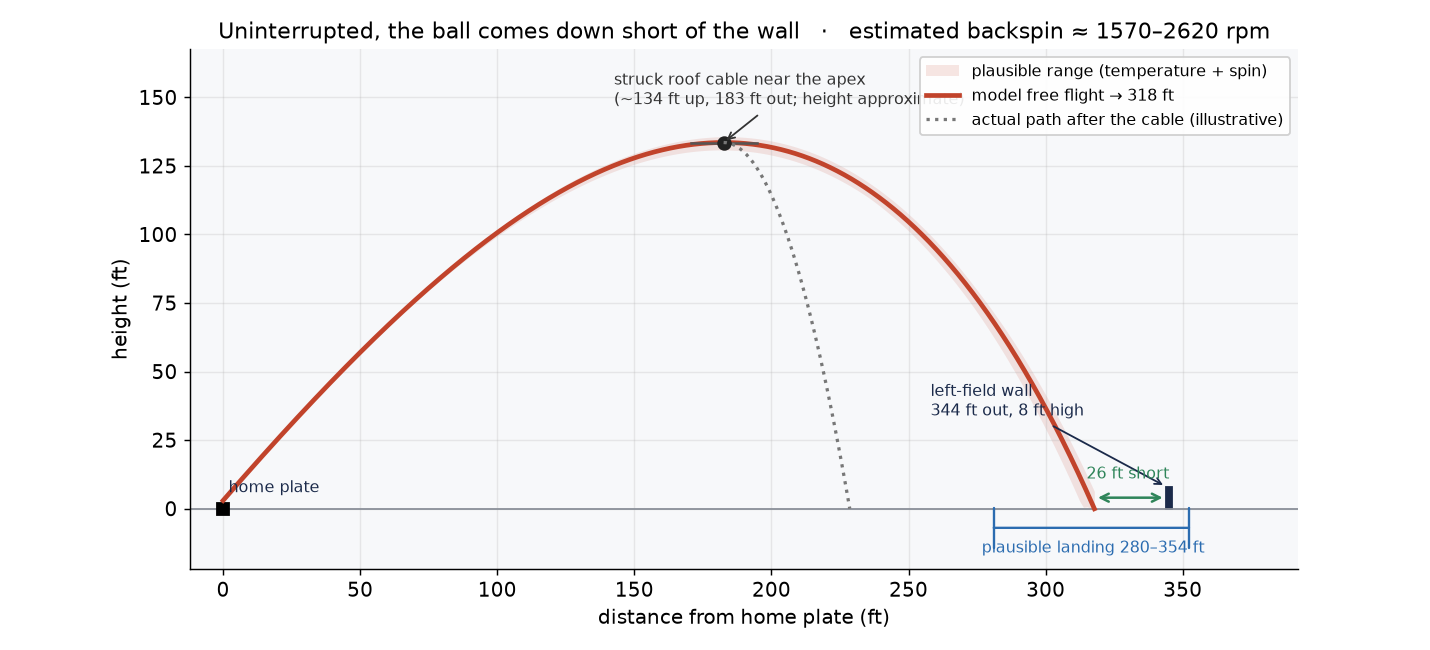
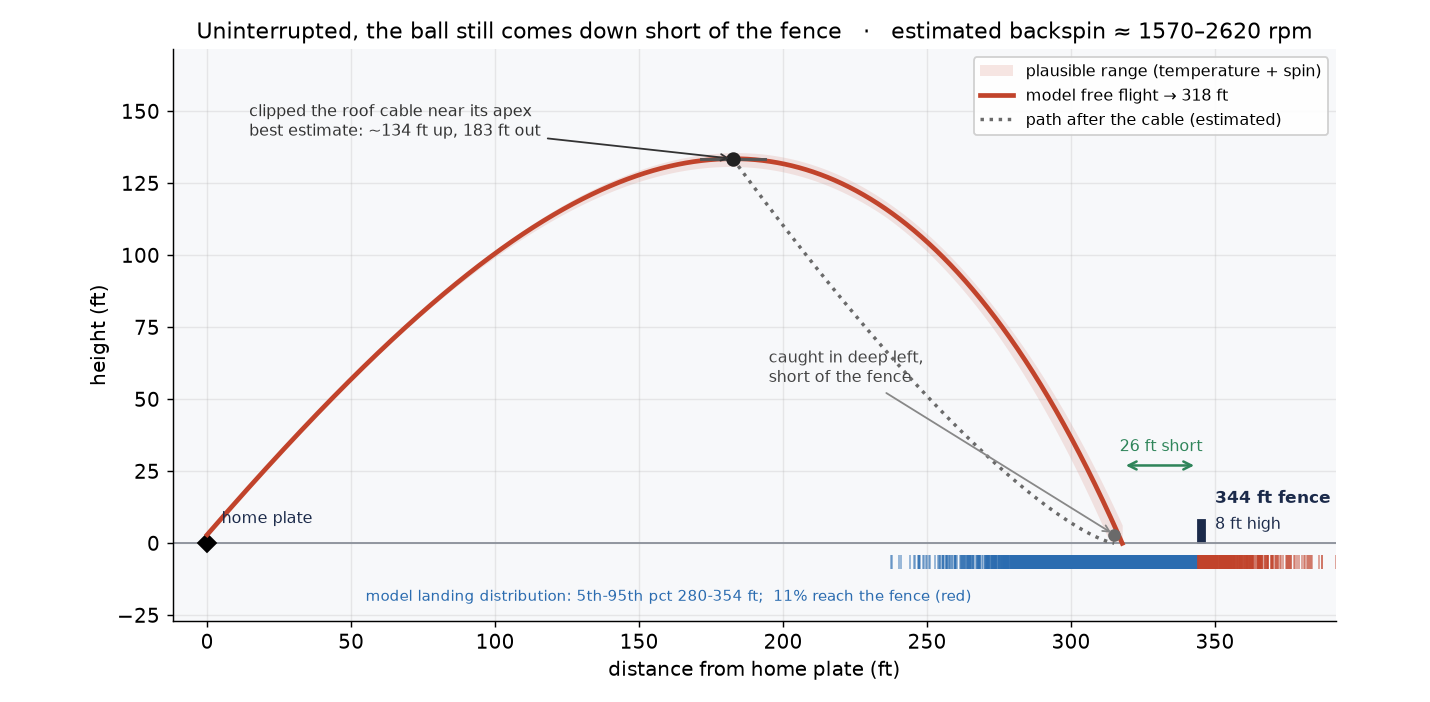
feat(viz): redraw the headline arc with the cable at the apex and a landing distribution
A ball cannot clip a cable above its own apex, so the strike is fixed near the top of the arc; a cable only shortens flight, so the cut-short path comes down in deep left just inside the free flight, consistent with the ball's Statcast distance. Replaces the plain p5-p95 bracket with a landing-distribution rug (blue falls short, red reaches the fence). Fence labels moved clear of the arc.

diff --git a/frb/plots.py b/frb/plots.py
@@ -214,25 +214,28 @@ def plot_trajectory_profile(
     carry_p05: float | None = None,
     carry_p95: float | None = None,
     spin_rpm: tuple[float, float] | None = None,
+    landing_samples=None,
 ) -> None:
-    """Headline profile: the free-flight arc vs the cable-interrupted ball.
+    """Headline profile: the free-flight arc and the cable-interrupted ball.
 
     A true-scale side view from home plate. The solid arc is the fitted physics
     model's free flight for France's launch at the closed-roof dome air density
     (the backspin that lifts a 49 deg ball is already in the calibrated lift, so
-    the arc has a real fly ball's steep climb and descent, not a bare parabola).
-    A shaded band shows the aerodynamic spread over the plausible temperature and
-    spin range, and a ground bracket shows the full p5-p95 landing range. The
-    344 ft wall (8 ft tall) is drawn to scale. The cable is marked near the apex,
-    where the ball actually struck it; the dashed path after that is illustrative,
-    since the exact cable height and deflection are not in any feed.
+    the arc has a real fly ball's climb and descent, not a bare parabola). A ball
+    cannot clip a cable higher than its own apex, so "near the apex" fixes the
+    strike to the top of the arc. A cable only shortens a flight, so the dashed
+    path after the strike comes down just inside the free flight, deep in left
+    field short of the wall, consistent with the ball's Statcast distance. The
+    344 ft fence (8 ft tall) is drawn to scale, and a rug shows the model's
+    landing distribution, red where it reaches the fence.
 
     Arguments:
         fit: The fitted physics model.
         path: Output image path.
-        carry_p05: Low end of the plausible landing range (ft), for the bracket.
-        carry_p95: High end of the plausible landing range (ft), for the bracket.
+        carry_p05: 5th percentile of the landing distribution (ft).
+        carry_p95: 95th percentile of the landing distribution (ft).
         spin_rpm: (low, high) estimated backspin range, for the annotation.
+        landing_samples: Sample of model landing distances for the rug.
     """
     rho_dome = P.rho(C.DOME_TEMP_F, C.DOME_ELEV_M, C.DOME_RH)
     cl0 = float(fit.cl(C.FRANCE_LA))
@@ -240,11 +243,12 @@ def plot_trajectory_profile(
     tr = P.integrate(C.FRANCE_EV, C.FRANCE_LA, cl0, rho_dome, cd=cd0)
     apex_i = int(np.argmax(tr.z_ft))
     apex_x, apex_z = float(tr.x_ft[apex_i]), float(tr.z_ft[apex_i])
+    land = float(tr.range_ft)
+    catch = 315.0  # cable-clipped ball: deep left, just inside the free-flight spot
 
-    # Aerodynamic envelope: sample temperature and lift (spin) over the plausible
-    # range and take the min/max height at each distance.
+    # Aerodynamic envelope: sample temperature and lift (spin), min/max height per distance.
     rng = np.random.default_rng(0)
-    xg = np.linspace(0, tr.range_ft, 240)
+    xg = np.linspace(0, land, 240)
     lo = np.full_like(xg, np.inf)
     hi = np.full_like(xg, -np.inf)
     for _ in range(40):
@@ -255,79 +259,73 @@ def plot_trajectory_profile(
         lo = np.fmin(lo, z)
         hi = np.fmax(hi, z)
 
-    fig, ax = plt.subplots(figsize=(11, 5))
+    fig, ax = plt.subplots(figsize=(11, 5.4))
     ax.set_facecolor("#f7f8fa")
-    # Ground and home plate.
     ax.axhline(0, color="#8a8f99", lw=1)
-    ax.plot(0, 0, "s", color="k", ms=7)
-    ax.annotate("home plate", xy=(0, 0), xytext=(2, 6), fontsize=9, color=INK)
+    ax.plot(0, 0, "D", color="k", ms=7)
+    ax.annotate("home plate", xy=(0, 0), xytext=(5, 7), fontsize=9, color=INK)
 
-    # Aerodynamic band and the central free-flight arc.
     ax.fill_between(xg, np.nan_to_num(lo), np.nan_to_num(hi), color=ACCENT, alpha=0.13, lw=0,
                     label="plausible range (temperature + spin)")
-    ax.plot(tr.x_ft, tr.z_ft, "-", color=ACCENT, lw=2.6, label=f"model free flight → {tr.range_ft:.0f} ft")
+    ax.plot(tr.x_ft, tr.z_ft, "-", color=ACCENT, lw=2.6, label=f"model free flight → {land:.0f} ft")
 
-    # The 344 ft wall, 8 ft tall, to scale.
-    ax.add_patch(plt.Rectangle((C.FENCE_FT, 0), 2.0, C.WALL_HEIGHT_FT, color=INK))
-    ax.annotate(
-        f"left-field wall\n{C.FENCE_FT:.0f} ft out, {C.WALL_HEIGHT_FT:.0f} ft high",
-        xy=(C.FENCE_FT, C.WALL_HEIGHT_FT),
-        xytext=(C.FENCE_FT - 86, 34),
-        fontsize=9,
-        color=INK,
-        arrowprops=dict(arrowstyle="->", color=INK, lw=1),
-    )
+    # Interrupted path: from the cable (apex) down to the catch, hugging the free flight.
+    tt = np.linspace(0, 1, 60)
+    xi = apex_x + (catch - apex_x) * tt
+    zi = apex_z * (1 - tt) ** 1.35
+    ax.plot(xi, np.clip(zi, 0, None), ":", color="#6a6a6a", lw=1.9, label="path after the cable (estimated)")
 
-    # Shortfall between the free-flight landing and the wall.
-    ax.annotate(
-        "",
-        xy=(C.FENCE_FT, 4),
-        xytext=(tr.range_ft, 4),
-        arrowprops=dict(arrowstyle="<->", color=GREEN, lw=1.4),
-    )
-    ax.annotate(
-        f"{C.FENCE_FT - tr.range_ft:.0f} ft short",
-        xy=((tr.range_ft + C.FENCE_FT) / 2, 4),
-        xytext=((tr.range_ft + C.FENCE_FT) / 2 - 16, 11),
-        fontsize=9,
-        color=GREEN,
-    )
+    # The 344 ft fence, 8 ft tall, to scale; labels to its right.
+    ax.add_patch(plt.Rectangle((C.FENCE_FT, 0), 2.4, C.WALL_HEIGHT_FT, color=INK))
+    ax.annotate(f"{C.FENCE_FT:.0f} ft fence", xy=(C.FENCE_FT + 6, 14), fontsize=9.5, color=INK, fontweight="bold")
+    ax.annotate(f"{C.WALL_HEIGHT_FT:.0f} ft high", xy=(C.FENCE_FT + 6, 5), fontsize=9, color=INK)
 
-    # The roof cable at the apex and the illustrative interrupted path.
-    ax.plot([apex_x - 12, apex_x + 12], [apex_z, apex_z], "-", color="#555", lw=1.4)
+    # Cable strike at the apex (best estimate).
+    ax.plot([apex_x - 11, apex_x + 11], [apex_z, apex_z], "-", color="#555", lw=1.6)
     ax.plot(apex_x, apex_z, "o", color="#222", ms=7)
     ax.annotate(
-        f"struck roof cable near the apex\n(~{apex_z:.0f} ft up, {apex_x:.0f} ft out; height approximate)",
+        f"clipped the roof cable near its apex\nbest estimate: ~{apex_z:.0f} ft up, {apex_x:.0f} ft out",
         xy=(apex_x, apex_z),
-        xytext=(apex_x - 40, apex_z + 14),
+        xytext=(apex_x - 168, apex_z + 8),
         fontsize=9,
         color="#333",
         arrowprops=dict(arrowstyle="->", color="#333", lw=1),
     )
-    xi = np.linspace(apex_x, apex_x + 46, 40)
-    zi = apex_z - (xi - apex_x) ** 2 * (apex_z / 46**2)
-    ax.plot(xi, np.clip(zi, 0, None), ":", color="#777", lw=1.8, label="actual path after the cable (illustrative)")
 
-    # Full landing range bracket on the ground.
-    if carry_p05 is not None and carry_p95 is not None:
-        ax.annotate(
-            "", xy=(carry_p05, -7), xytext=(carry_p95, -7),
-            arrowprops=dict(arrowstyle="|-|", color=BLUE, lw=1.3),
-        )
-        ax.annotate(
-            f"plausible landing {carry_p05:.0f}–{carry_p95:.0f} ft",
-            xy=((carry_p05 + carry_p95) / 2, -7),
-            xytext=((carry_p05 + carry_p95) / 2 - 40, -16),
-            fontsize=9,
-            color=BLUE,
-        )
+    # Catch marker.
+    ax.plot(catch, 3, "o", color="#6a6a6a", ms=6)
+    ax.annotate(
+        "caught in deep left,\nshort of the fence",
+        xy=(catch, 3),
+        xytext=(catch - 120, 56),
+        fontsize=9,
+        color="#444",
+        arrowprops=dict(arrowstyle="->", color="#888", lw=1),
+    )
+
+    # Shortfall from the free-flight landing to the fence.
+    ax.annotate("", xy=(C.FENCE_FT, 27), xytext=(land, 27), arrowprops=dict(arrowstyle="<->", color=GREEN, lw=1.4))
+    ax.annotate(f"{C.FENCE_FT - land:.0f} ft short", xy=((land + C.FENCE_FT) / 2, 27),
+                xytext=((land + C.FENCE_FT) / 2 - 14, 32), fontsize=9, color=GREEN)
+
+    # Landing distribution rug.
+    if landing_samples is not None and len(landing_samples):
+        ss = np.asarray(landing_samples, float)
+        cols = np.where(ss >= C.FENCE_FT, ACCENT, BLUE)
+        ax.vlines(ss, -9, -4, colors=cols, lw=1, alpha=0.5)
+        frac = float(np.mean(ss >= C.FENCE_FT))
+        lab = "model landing distribution"
+        if carry_p05 is not None:
+            lab += f": 5th-95th pct {carry_p05:.0f}-{carry_p95:.0f} ft"
+        lab += f";  {frac * 100:.0f}% reach the fence (red)"
+        ax.annotate(lab, xy=(np.median(ss), -9), xytext=(55, -20), fontsize=8.5, color=BLUE)
 
     sub = "" if spin_rpm is None else f"   ·   estimated backspin ≈ {spin_rpm[0]:.0f}–{spin_rpm[1]:.0f} rpm"
-    ax.set_title("Uninterrupted, the ball comes down short of the wall" + sub, fontsize=12)
+    ax.set_title("Uninterrupted, the ball still comes down short of the fence" + sub, fontsize=12)
     ax.set_xlabel("distance from home plate (ft)")
     ax.set_ylabel("height (ft)")
     ax.set_xlim(-12, 392)
-    ax.set_ylim(-22, apex_z + 34)
+    ax.set_ylim(-27, apex_z + 38)
     ax.set_aspect("equal")
     ax.grid(True, alpha=0.25)
     ax.legend(loc="upper right", fontsize=9, framealpha=0.9)

diff --git a/scripts/export_chartdata.py b/scripts/export_chartdata.py
@@ -156,6 +156,24 @@ def main() -> None:
         "wall_height_ft": C.WALL_HEIGHT_FT,
         "statcast_dist": C.FRANCE_STATCAST_DIST,
     }
+    # Landing distribution for the plausible-landing band (reproduces the physics
+    # sensitivity sweep: temperature plus per-ball spin scatter at the France launch).
+    near = df[df.launch_speed.between(103, 107) & df.launch_angle.between(47, 51) & df.air_density.between(1.14, 1.19)]
+    spin_sigma = float(near.hit_distance_sc.std()) if len(near) >= 30 else 22.0
+    rng2 = np.random.default_rng(1)
+    n_s = 320
+    temps = rng2.uniform(60.0, 80.0, n_s)
+    clsc = np.clip(rng2.normal(1.0, 0.35 / 2.0, n_s), 0.3, 2.0)
+    rhos_s = np.array([float(P.rho(float(t), C.DOME_ELEV_M, C.DOME_RH)) for t in temps])
+    carr = P.carry_vec(np.full(n_s, C.FRANCE_EV), np.full(n_s, C.FRANCE_LA), cl49 * clsc, rhos_s, np.full(n_s, cd49))
+    carr = carr + rng2.normal(0.0, spin_sigma, n_s)
+    out["trajectory"]["landing_samples"] = [round(float(x), 1) for x in carr]
+    # Where the ball came down: the model free flight (318 ft) and Statcast's
+    # projection (323 ft) agree, ~320 ft, deep in left field short of the wall.
+    out["trajectory"]["catch_ft"] = 320.0
+    out["trajectory"]["cable_x"] = out["trajectory"]["apex_x"]
+    out["trajectory"]["cable_z"] = out["trajectory"]["apex_z"]
+
     out["spin"] = {
         "bat_speed": sp["measured_swing"]["bat_speed_mph"],
         "attack_angle": sp["measured_swing"]["attack_angle_deg"],

diff --git a/run.py b/run.py
@@ -378,6 +378,7 @@ def main() -> None:
             carry_p05=sens["p05"],
             carry_p95=sens["p95"],
             spin_rpm=spin_rng,
+            landing_samples=sens["carries"],
         )
         PL.plot_carry_vs_la(df, fit, C.FIGURES / "carry_vs_launch_angle.png")
         PL.plot_france_distribution(df, C.FIGURES / "france_carry_distribution.png")
